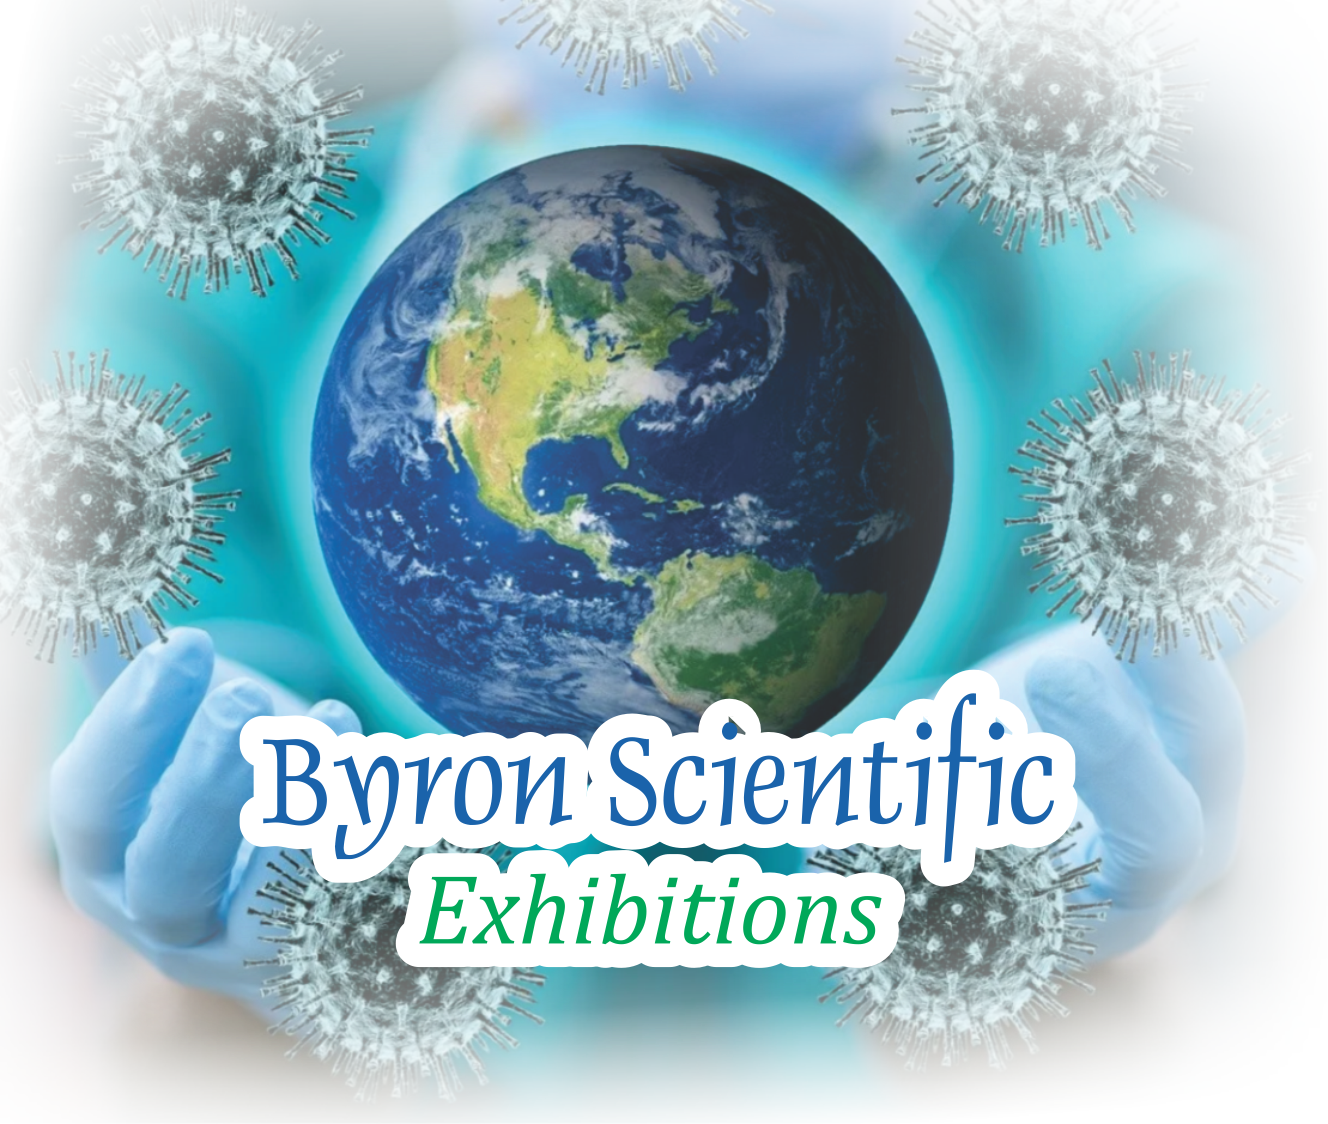
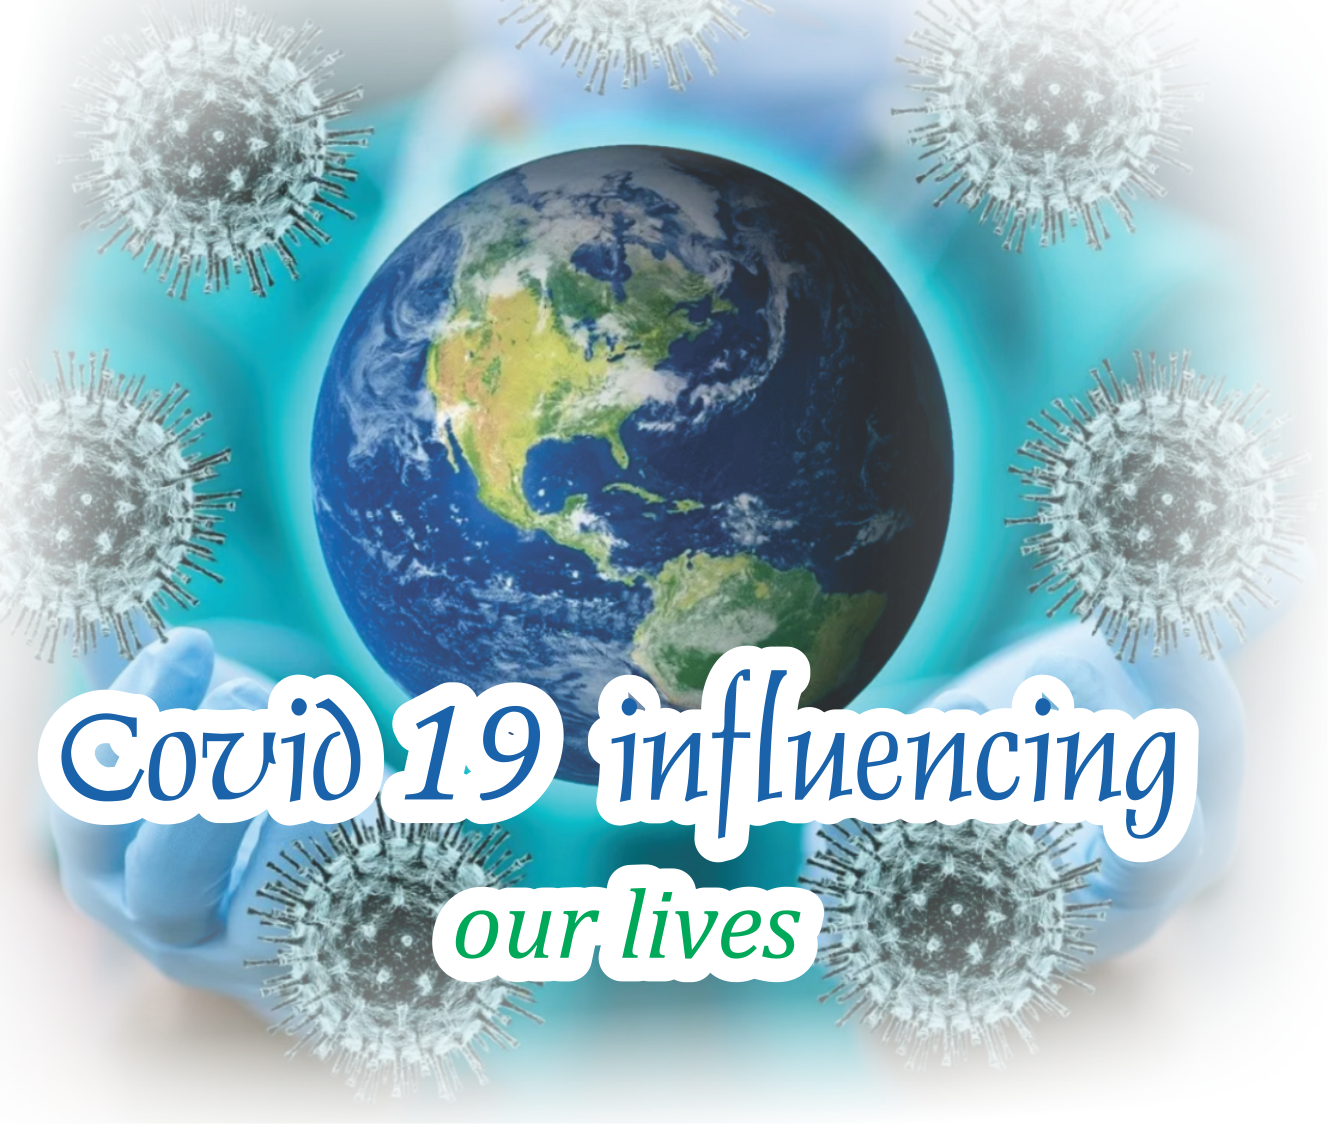
per

Changed region(s): [[0.0309, 0.5605, 0.9262, 0.8719]]

diff --git a/science.html b/science.html
@@ -10,7 +10,6 @@
   <body>    
            <section class="section1">
             <div><img class="insignia" src="img/cole.png" alt=""></div>
-         
             <div><img class="ib" src="img/ib.png" alt=""></div>
         </section>
         <section class="section2">
@@ -18,18 +17,16 @@
             <img src="img/lgferia.png" alt="">
         </div>
         </section > 
-        <section class="section3">
-          <div><p>“La influencia del Covid - 19 en nuestras vidas”</p></div>
-        </section>
+        
         <section class="menu">
             <div><a href="pypferia.html">
-            <img src="img/spyp.png" class="link1" alt=""></a>
+            <img src="img/spyp2.png" class="link1" alt=""></a>
           </div>
             <div><a href="mypferia.html" >
-            <img src="img/smyp.png" class="link" alt=""></a>
+            <img src="img/smyp2.png" class="link" alt=""></a>
             </div>
             <div ><a href="diplomaferia.html" >
-            <img src="img/sdiploma.png" class="diploma" alt=""></a>
+            <img src="img/sdiploma2.png" class="diploma" alt=""></a>
             </div>
 
         </section>

diff --git a/css/styls2.css b/css/styls2.css
@@ -25,6 +25,7 @@ body{
     width: 98%;
     padding: 0px;
     display: flex;
+    justify-content: space-between;
     }
 .gallery div{
     margin: 0 auto;
@@ -188,8 +189,8 @@ body{
         padding: 10px;
         margin: 0 auto;
         display: block;
-        width: 600px;
-        height: 530px;
+        width: 630px;
+        height: 560px;
     
     }
     .insignia{
